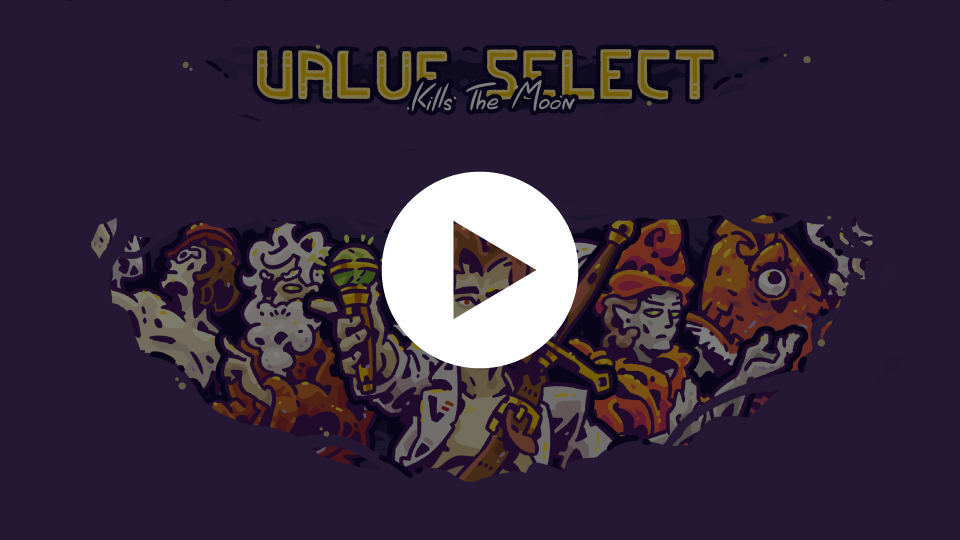
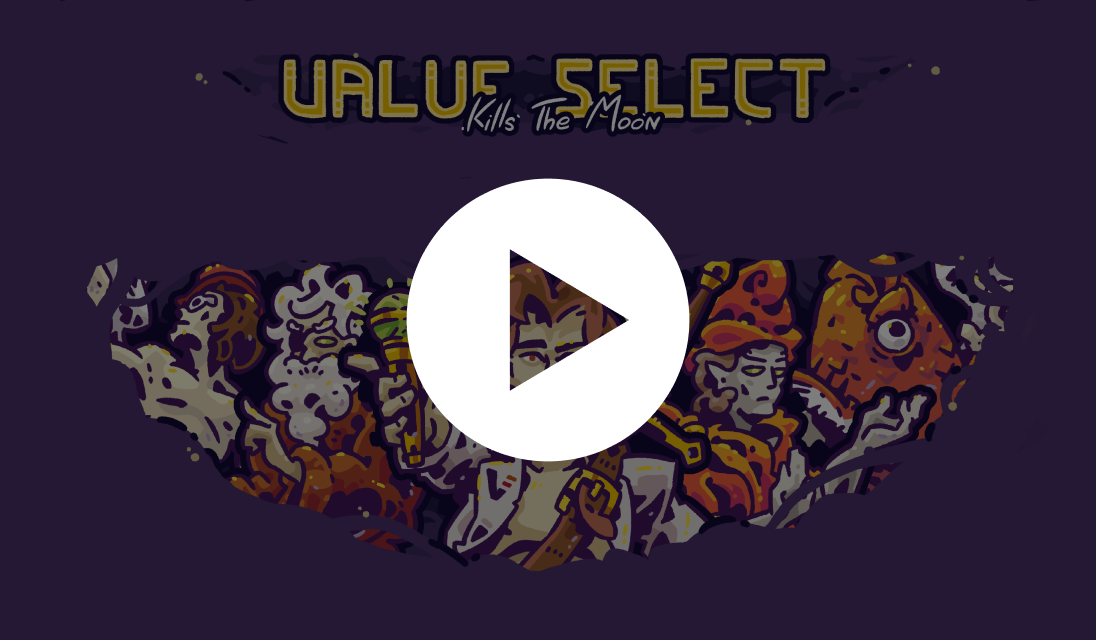
old video

diff --git a/index.html b/index.html
@@ -21,32 +21,25 @@
         <img src="poster.png" class="logo" style="max-height: 90vh" />
       </div>
 
-      <div class="flex flex-wrap justify-center flex-grow">
-        <div class="video-wrapper justify-items-center flex-grow flex-shrink-0">
-          <div class="video">
-            <video
-              id="video"
-              width="960"
-              height="540"
-              controls
-              poster="thumb.png"
-              preload="auto"
-              autoplay
-            >
-              <source src="Video.mov" type="video/mp4" />
-            </video>
-          </div>
-          <br />
-
-          <p class="text-line-4">WITH JAZZ EMU</p>
+      <div
+        class="flex flex-nowrap justify-center flex-grow"
+        style="flex-direction: column"
+      >
+        <div class="video-wrapper">
+          <video id="video" controls poster="thumb.png" preload="auto" autoplay>
+            <source src="Video.mov" type="video/mp4" />
+          </video>
         </div>
+        <br />
+        <p class="text-line-4">WITH JAZZ EMU</p>
 
         <div id="dates" class="flex-grow flex-shrink-0">
           <!-- <p class="text-line-1">Sold Out</p> -->
         </div>
+
         <a
           href="https://www.realgoodtouring.com"
-          class="flex-grow flex-shrink-0"
+          class="flex-grow"
           style="margin: 3.5em 0; flex-basis: 100%"
           target="_blank"
         >

diff --git a/videoplayer.css b/videoplayer.css
@@ -1,8 +1,6 @@
 .video-wrapper {
   background-size: cover;
   width: 100%;
-  height: 0;
-  padding-bottom: 56.25%;
 }
 
 .video {
@@ -16,13 +14,16 @@
   max-width: 600px;
 }
 
+.video-2 {
+  margin-top: 10px;
+}
+
 video {
   width: 100%;
-  height: 100%;
+  height: auto;
+  float: left;
   border-radius: 2px;
-  position: absolute;
-  top: 0;
-  left: 0;
+  outline: none;
 }
 
 .video::after {
